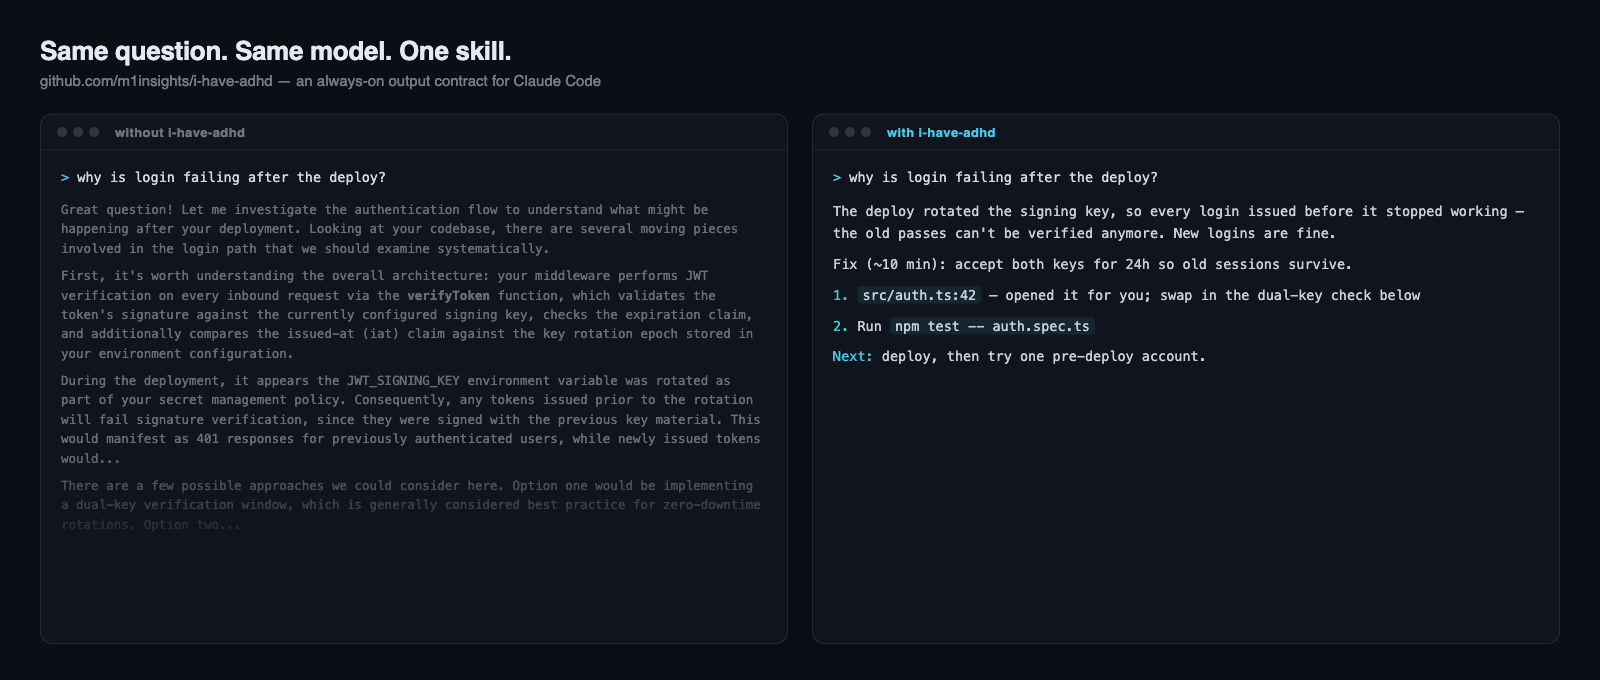
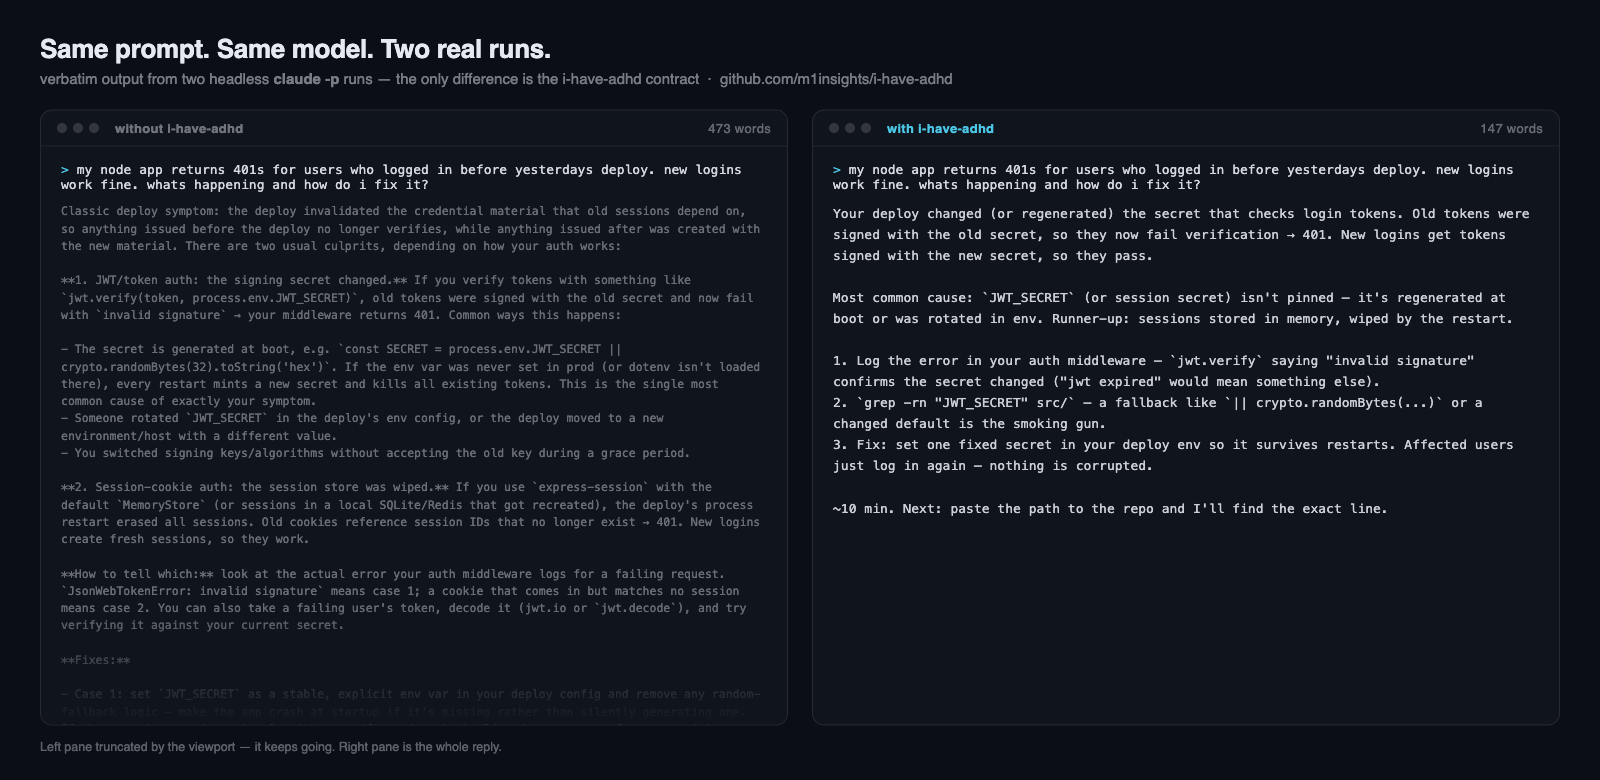
Hero image: verbatim A/B from two real headless runs (473 vs 147 words)

diff --git a/assets/before-after.html b/assets/before-after.html
@@ -5,18 +5,18 @@
 <style>
   * { margin: 0; padding: 0; box-sizing: border-box; }
   body {
-    width: 1600px; height: 680px;
+    width: 1600px; height: 780px;
     background: #0b0e14;
     font-family: "SF Mono", ui-monospace, Menlo, monospace;
     display: flex; flex-direction: column;
-    padding: 36px 40px;
+    padding: 34px 40px 26px;
     color: #e6e9ef;
   }
   h1 {
     font-size: 26px; font-weight: 600; letter-spacing: -0.3px;
     margin-bottom: 6px; font-family: -apple-system, "SF Pro Display", sans-serif;
   }
-  .sub { color: rgba(230,233,239,.5); font-size: 15px; margin-bottom: 24px;
+  .sub { color: rgba(230,233,239,.5); font-size: 15px; margin-bottom: 22px;
     font-family: -apple-system, sans-serif; }
   .panes { display: flex; gap: 24px; flex: 1; min-height: 0; }
   .pane {
@@ -24,60 +24,73 @@
     border-radius: 12px; overflow: hidden; display: flex; flex-direction: column;
   }
   .bar {
-    padding: 10px 16px; font-size: 13px; letter-spacing: .4px;
+    padding: 10px 16px; font-size: 13px; letter-spacing: .3px;
     border-bottom: 1px solid rgba(255,255,255,.07);
     display: flex; align-items: center; gap: 8px;
     font-family: -apple-system, sans-serif; font-weight: 600;
   }
   .bar .dots { display: flex; gap: 6px; margin-right: 8px; }
   .dot { width: 10px; height: 10px; border-radius: 50%; background: rgba(255,255,255,.14); }
+  .bar .wc { margin-left: auto; font-weight: 500; color: rgba(230,233,239,.4); }
   .before .bar { color: rgba(230,233,239,.45); }
   .after .bar { color: #4cc7e6; }
-  .body { padding: 16px 20px; font-size: 13.5px; line-height: 1.62; overflow: hidden; }
-  .prompt { color: rgba(230,233,239,.92); margin-bottom: 12px; }
+  .body { padding: 15px 20px; overflow: hidden; flex: 1; }
+  .prompt { color: rgba(230,233,239,.92); margin-bottom: 11px; font-size: 13px; }
   .prompt .caret { color: #4cc7e6; }
-  .before .reply { color: rgba(230,233,239,.42); font-size: 12.5px; line-height: 1.55; }
-  .before .reply p { margin-bottom: 8px; }
-  .after .reply { color: rgba(230,233,239,.88); }
-  .after .reply p { margin-bottom: 9px; }
-  .after .hl { color: #4cc7e6; }
-  code.k { background: rgba(76,199,230,.10); border-radius: 4px; padding: 1px 5px; }
+  .reply { white-space: pre-wrap; word-wrap: break-word; }
+  .before .reply { color: rgba(230,233,239,.42); font-size: 11.5px; line-height: 1.5; }
+  .after .reply { color: rgba(230,233,239,.88); font-size: 13px; line-height: 1.62; }
   .fade { position: relative; }
   .fade::after {
-    content: ""; position: absolute; left: 0; right: 0; bottom: 0; height: 110px;
+    content: ""; position: absolute; left: 0; right: 0; bottom: 0; height: 120px;
     background: linear-gradient(transparent, #10141d);
   }
+  .cap { margin-top: 14px; font-size: 12.5px; color: rgba(230,233,239,.38);
+    font-family: -apple-system, sans-serif; }
 </style>
 </head>
 <body>
-  <h1>Same question. Same model. One skill.</h1>
-  <div class="sub">github.com/m1insights/i-have-adhd — an always-on output contract for Claude Code</div>
+  <h1>Same prompt. Same model. Two real runs.</h1>
+  <div class="sub">verbatim output from two headless <b>claude -p</b> runs — the only difference is the i-have-adhd contract &nbsp;·&nbsp; github.com/m1insights/i-have-adhd</div>
   <div class="panes">
     <div class="pane before">
-      <div class="bar"><span class="dots"><span class="dot"></span><span class="dot"></span><span class="dot"></span></span>without i-have-adhd</div>
+      <div class="bar"><span class="dots"><span class="dot"></span><span class="dot"></span><span class="dot"></span></span>without i-have-adhd<span class="wc">473 words</span></div>
       <div class="body fade">
-        <div class="prompt"><span class="caret">&gt;</span> why is login failing after the deploy?</div>
-        <div class="reply">
-          <p>Great question! Let me investigate the authentication flow to understand what might be happening after your deployment. Looking at your codebase, there are several moving pieces involved in the login path that we should examine systematically.</p>
-          <p>First, it's worth understanding the overall architecture: your middleware performs JWT verification on every inbound request via the <b>verifyToken</b> function, which validates the token's signature against the currently configured signing key, checks the expiration claim, and additionally compares the issued-at (iat) claim against the key rotation epoch stored in your environment configuration.</p>
-          <p>During the deployment, it appears the JWT_SIGNING_KEY environment variable was rotated as part of your secret management policy. Consequently, any tokens issued prior to the rotation will fail signature verification, since they were signed with the previous key material. This would manifest as 401 responses for previously authenticated users, while newly issued tokens would...</p>
-          <p>There are a few possible approaches we could consider here. Option one would be implementing a dual-key verification window, which is generally considered best practice for zero-downtime rotations. Option two...</p>
-        </div>
+        <div class="prompt"><span class="caret">&gt;</span> my node app returns 401s for users who logged in before yesterdays deploy. new logins work fine. whats happening and how do i fix it?</div>
+        <div class="reply">Classic deploy symptom: the deploy invalidated the credential material that old sessions depend on, so anything issued before the deploy no longer verifies, while anything issued after was created with the new material. There are two usual culprits, depending on how your auth works:
+
+**1. JWT/token auth: the signing secret changed.** If you verify tokens with something like `jwt.verify(token, process.env.JWT_SECRET)`, old tokens were signed with the old secret and now fail with `invalid signature` → your middleware returns 401. Common ways this happens:
+
+- The secret is generated at boot, e.g. `const SECRET = process.env.JWT_SECRET || crypto.randomBytes(32).toString('hex')`. If the env var was never set in prod (or dotenv isn't loaded there), every restart mints a new secret and kills all existing tokens. This is the single most common cause of exactly your symptom.
+- Someone rotated `JWT_SECRET` in the deploy's env config, or the deploy moved to a new environment/host with a different value.
+- You switched signing keys/algorithms without accepting the old key during a grace period.
+
+**2. Session-cookie auth: the session store was wiped.** If you use `express-session` with the default `MemoryStore` (or sessions in a local SQLite/Redis that got recreated), the deploy's process restart erased all sessions. Old cookies reference session IDs that no longer exist → 401. New logins create fresh sessions, so they work.
+
+**How to tell which:** look at the actual error your auth middleware logs for a failing request. `JsonWebTokenError: invalid signature` means case 1; a cookie that comes in but matches no session means case 2. You can also take a failing user's token, decode it (jwt.io or `jwt.decode`), and try verifying it against your current secret.
+
+**Fixes:**
+
+- Case 1: set `JWT_SECRET` as a stable, explicit env var in your deploy config and remove any random-fallback logic — make the app crash at startup if it's missing rather than silently generating one. If the rotation was intentional, either verify against both old and new secrets for a transition window (try new, fall back to old) or accept that everyone re-logs-in once.
+- Case 2: move sessions to a persistent external store (`connect-redis`, `connect-pg-simple`, etc.) so restarts and deploys don't drop them.</div>
       </div>
     </div>
     <div class="pane after">
-      <div class="bar"><span class="dots"><span class="dot"></span><span class="dot"></span><span class="dot"></span></span>with i-have-adhd</div>
+      <div class="bar"><span class="dots"><span class="dot"></span><span class="dot"></span><span class="dot"></span></span>with i-have-adhd<span class="wc">147 words</span></div>
       <div class="body">
-        <div class="prompt"><span class="caret">&gt;</span> why is login failing after the deploy?</div>
-        <div class="reply">
-          <p>The deploy rotated the signing key, so every login issued before it stopped working — the old passes can't be verified anymore. New logins are fine.</p>
-          <p>Fix (~10 min): accept both keys for 24h so old sessions survive.</p>
-          <p><span class="hl">1.</span> <code class="k">src/auth.ts:42</code> — opened it for you; swap in the dual-key check below</p>
-          <p><span class="hl">2.</span> Run <code class="k">npm test -- auth.spec.ts</code></p>
-          <p><span class="hl">Next:</span> deploy, then try one pre-deploy account.</p>
-        </div>
+        <div class="prompt"><span class="caret">&gt;</span> my node app returns 401s for users who logged in before yesterdays deploy. new logins work fine. whats happening and how do i fix it?</div>
+        <div class="reply">Your deploy changed (or regenerated) the secret that checks login tokens. Old tokens were signed with the old secret, so they now fail verification → 401. New logins get tokens signed with the new secret, so they pass.
+
+Most common cause: `JWT_SECRET` (or session secret) isn't pinned — it's regenerated at boot or was rotated in env. Runner-up: sessions stored in memory, wiped by the restart.
+
+1. Log the error in your auth middleware — `jwt.verify` saying "invalid signature" confirms the secret changed ("jwt expired" would mean something else).
+2. `grep -rn "JWT_SECRET" src/` — a fallback like `|| crypto.randomBytes(...)` or a changed default is the smoking gun.
+3. Fix: set one fixed secret in your deploy env so it survives restarts. Affected users just log in again — nothing is corrupted.
+
+~10 min. Next: paste the path to the repo and I'll find the exact line.</div>
       </div>
     </div>
   </div>
+  <div class="cap">Left pane truncated by the viewport — it keeps going. Right pane is the whole reply.</div>
 </body>
 </html>
